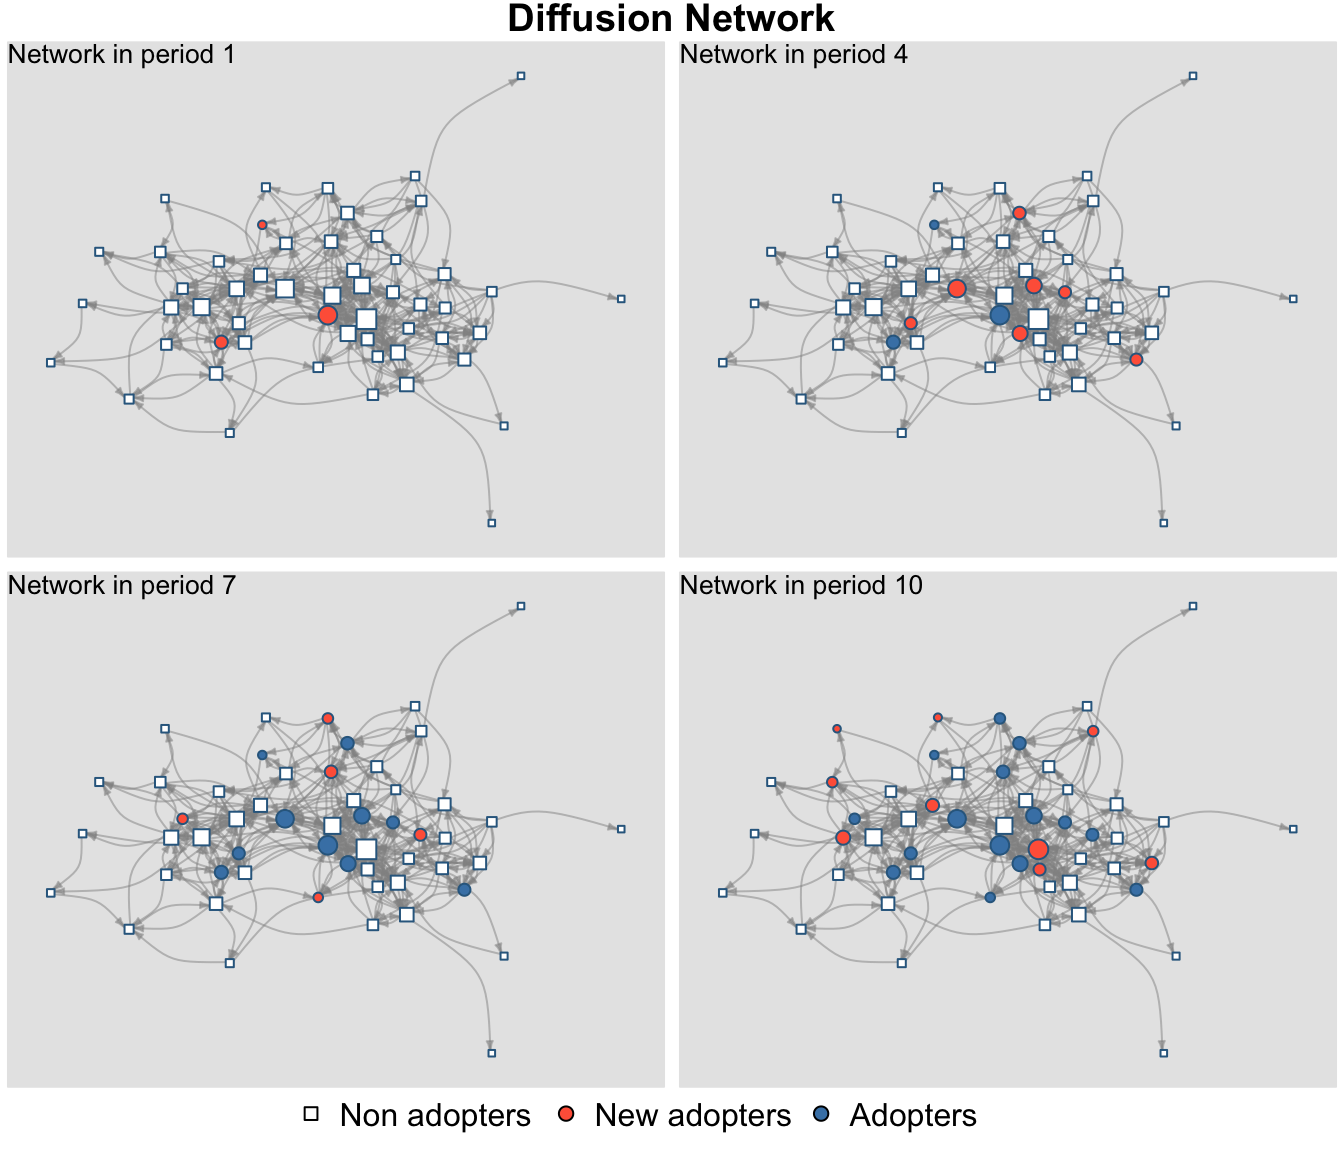
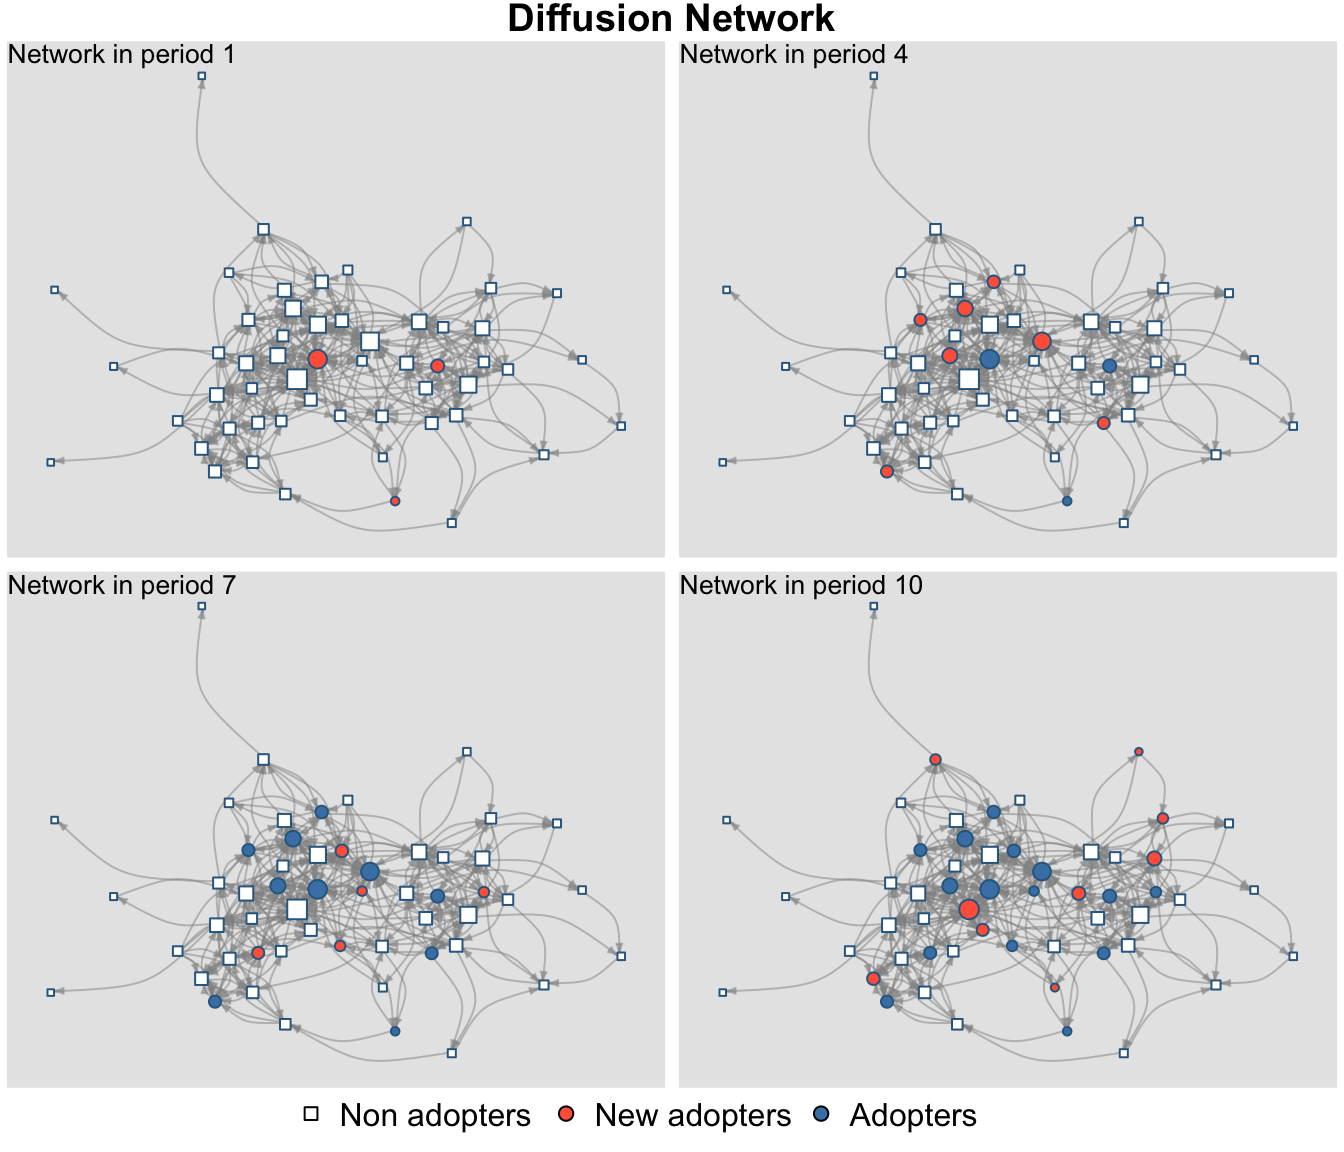
Actualiza la página de bienvenida con el mapa de capítulos

diff --git a/docs/index.html b/docs/index.html
@@ -350,6 +350,7 @@ ul.task-list li input[type="checkbox"] {
   <li><a href="#bienvenida" id="toc-bienvenida" class="nav-link active" data-scroll-target="#bienvenida">Bienvenida</a>
   <ul class="collapse">
   <li><a href="#para-quién-es-este-libro" id="toc-para-quién-es-este-libro" class="nav-link" data-scroll-target="#para-quién-es-este-libro">¿Para quién es este libro?</a></li>
+  <li><a href="#los-capítulos" id="toc-los-capítulos" class="nav-link" data-scroll-target="#los-capítulos">Los capítulos</a></li>
   <li><a href="#materiales" id="toc-materiales" class="nav-link" data-scroll-target="#materiales">Materiales</a></li>
   </ul></li>
   </ul>
@@ -403,12 +404,47 @@ ul.task-list li input[type="checkbox"] {
 <h2 class="unnumbered anchored" data-anchor-id="para-quién-es-este-libro">¿Para quién es este libro?</h2>
 <p>Para estudiantes de primer año del doctorado, que vienen de orígenes muy diversos: ingeniería, arquitectura, salud, sociología, psicología, entre otros. <strong>No se asume experiencia previa en programación.</strong> La <a href="./01-setup-computacional.html">Ayudantía 1</a> deja instalado y configurado todo lo necesario.</p>
 </section>
+<section id="los-capítulos" class="level2 unnumbered">
+<h2 class="unnumbered anchored" data-anchor-id="los-capítulos">Los capítulos</h2>
+<table class="caption-top table">
+<thead>
+<tr class="header">
+<th>Capítulo</th>
+<th>De qué trata</th>
+</tr>
+</thead>
+<tbody>
+<tr class="odd">
+<td><a href="./01-setup-computacional.html">Kit computacional</a></td>
+<td>IDE, R, Git y GitHub, agentes de IA. Cómo trabajar y cómo hacerse responsable de lo que uno entrega.</td>
+</tr>
+<tr class="even">
+<td><a href="./02-fundamentos-matematicos.html">Fundamentos matemáticos</a></td>
+<td>Grafos, matrices de adyacencia, caminos, centralidades. El vocabulario mínimo.</td>
+</tr>
+<tr class="odd">
+<td><a href="./03-mecanismos-de-formacion.html">Mecanismos de formación</a></td>
+<td>Por qué existen los lazos: homofilia, reciprocidad, triadas, popularidad.</td>
+</tr>
+<tr class="even">
+<td><a href="./04-inferencia-qap-y-ergm.html">Inferencia: QAP y ERGM</a></td>
+<td>Cómo saber si un patrón es real. Permutaciones de etiquetas y modelos exponenciales.</td>
+</tr>
+<tr class="odd">
+<td><a href="./05-contagio-social-en-redes.html">Contagio social</a></td>
+<td>Cómo se difunden conductas: umbrales, contagio complejo, dónde sembrar, <code>netdiffuseR</code>.</td>
+</tr>
+</tbody>
+</table>
+<p>Al final hay un <a href="./anexos.html">anexo sobre transiciones de fase</a>, que explica de dónde viene el lenguaje de <em>tipping points</em> e irreversibilidad que se usa en el capítulo de contagio.</p>
+<p>Cada capítulo trae recuadros <strong>Para jugar</strong>: variaciones del código que conviene correr por cuenta propia. Ahí es donde se aprende.</p>
+</section>
 <section id="materiales" class="level2 unnumbered">
 <h2 class="unnumbered anchored" data-anchor-id="materiales">Materiales</h2>
 <ul>
 <li>Repositorio del curso: <a href="https://github.com/aoliveram/Redes-Sociales-2026" class="uri">https://github.com/aoliveram/Redes-Sociales-2026</a></li>
 <li>Datos de la práctica: carpeta <a href="https://github.com/aoliveram/Redes-Sociales-2026/tree/main/libro-redes-sociales-2026/datos"><code>libro-redes-sociales-2026/datos/</code></a></li>
-<li>Bibliografía: carpeta <a href="https://github.com/aoliveram/Redes-Sociales-2026/tree/main/libro-redes-sociales-2026/bibliografia"><code>libro-redes-sociales-2026/bibliografia/</code></a></li>
+<li>Referencias citadas: <a href="./referencias.html">capítulo de referencias</a></li>
 </ul>
 <div class="callout callout-style-default callout-note callout-titled">
 <div class="callout-header d-flex align-content-center">
